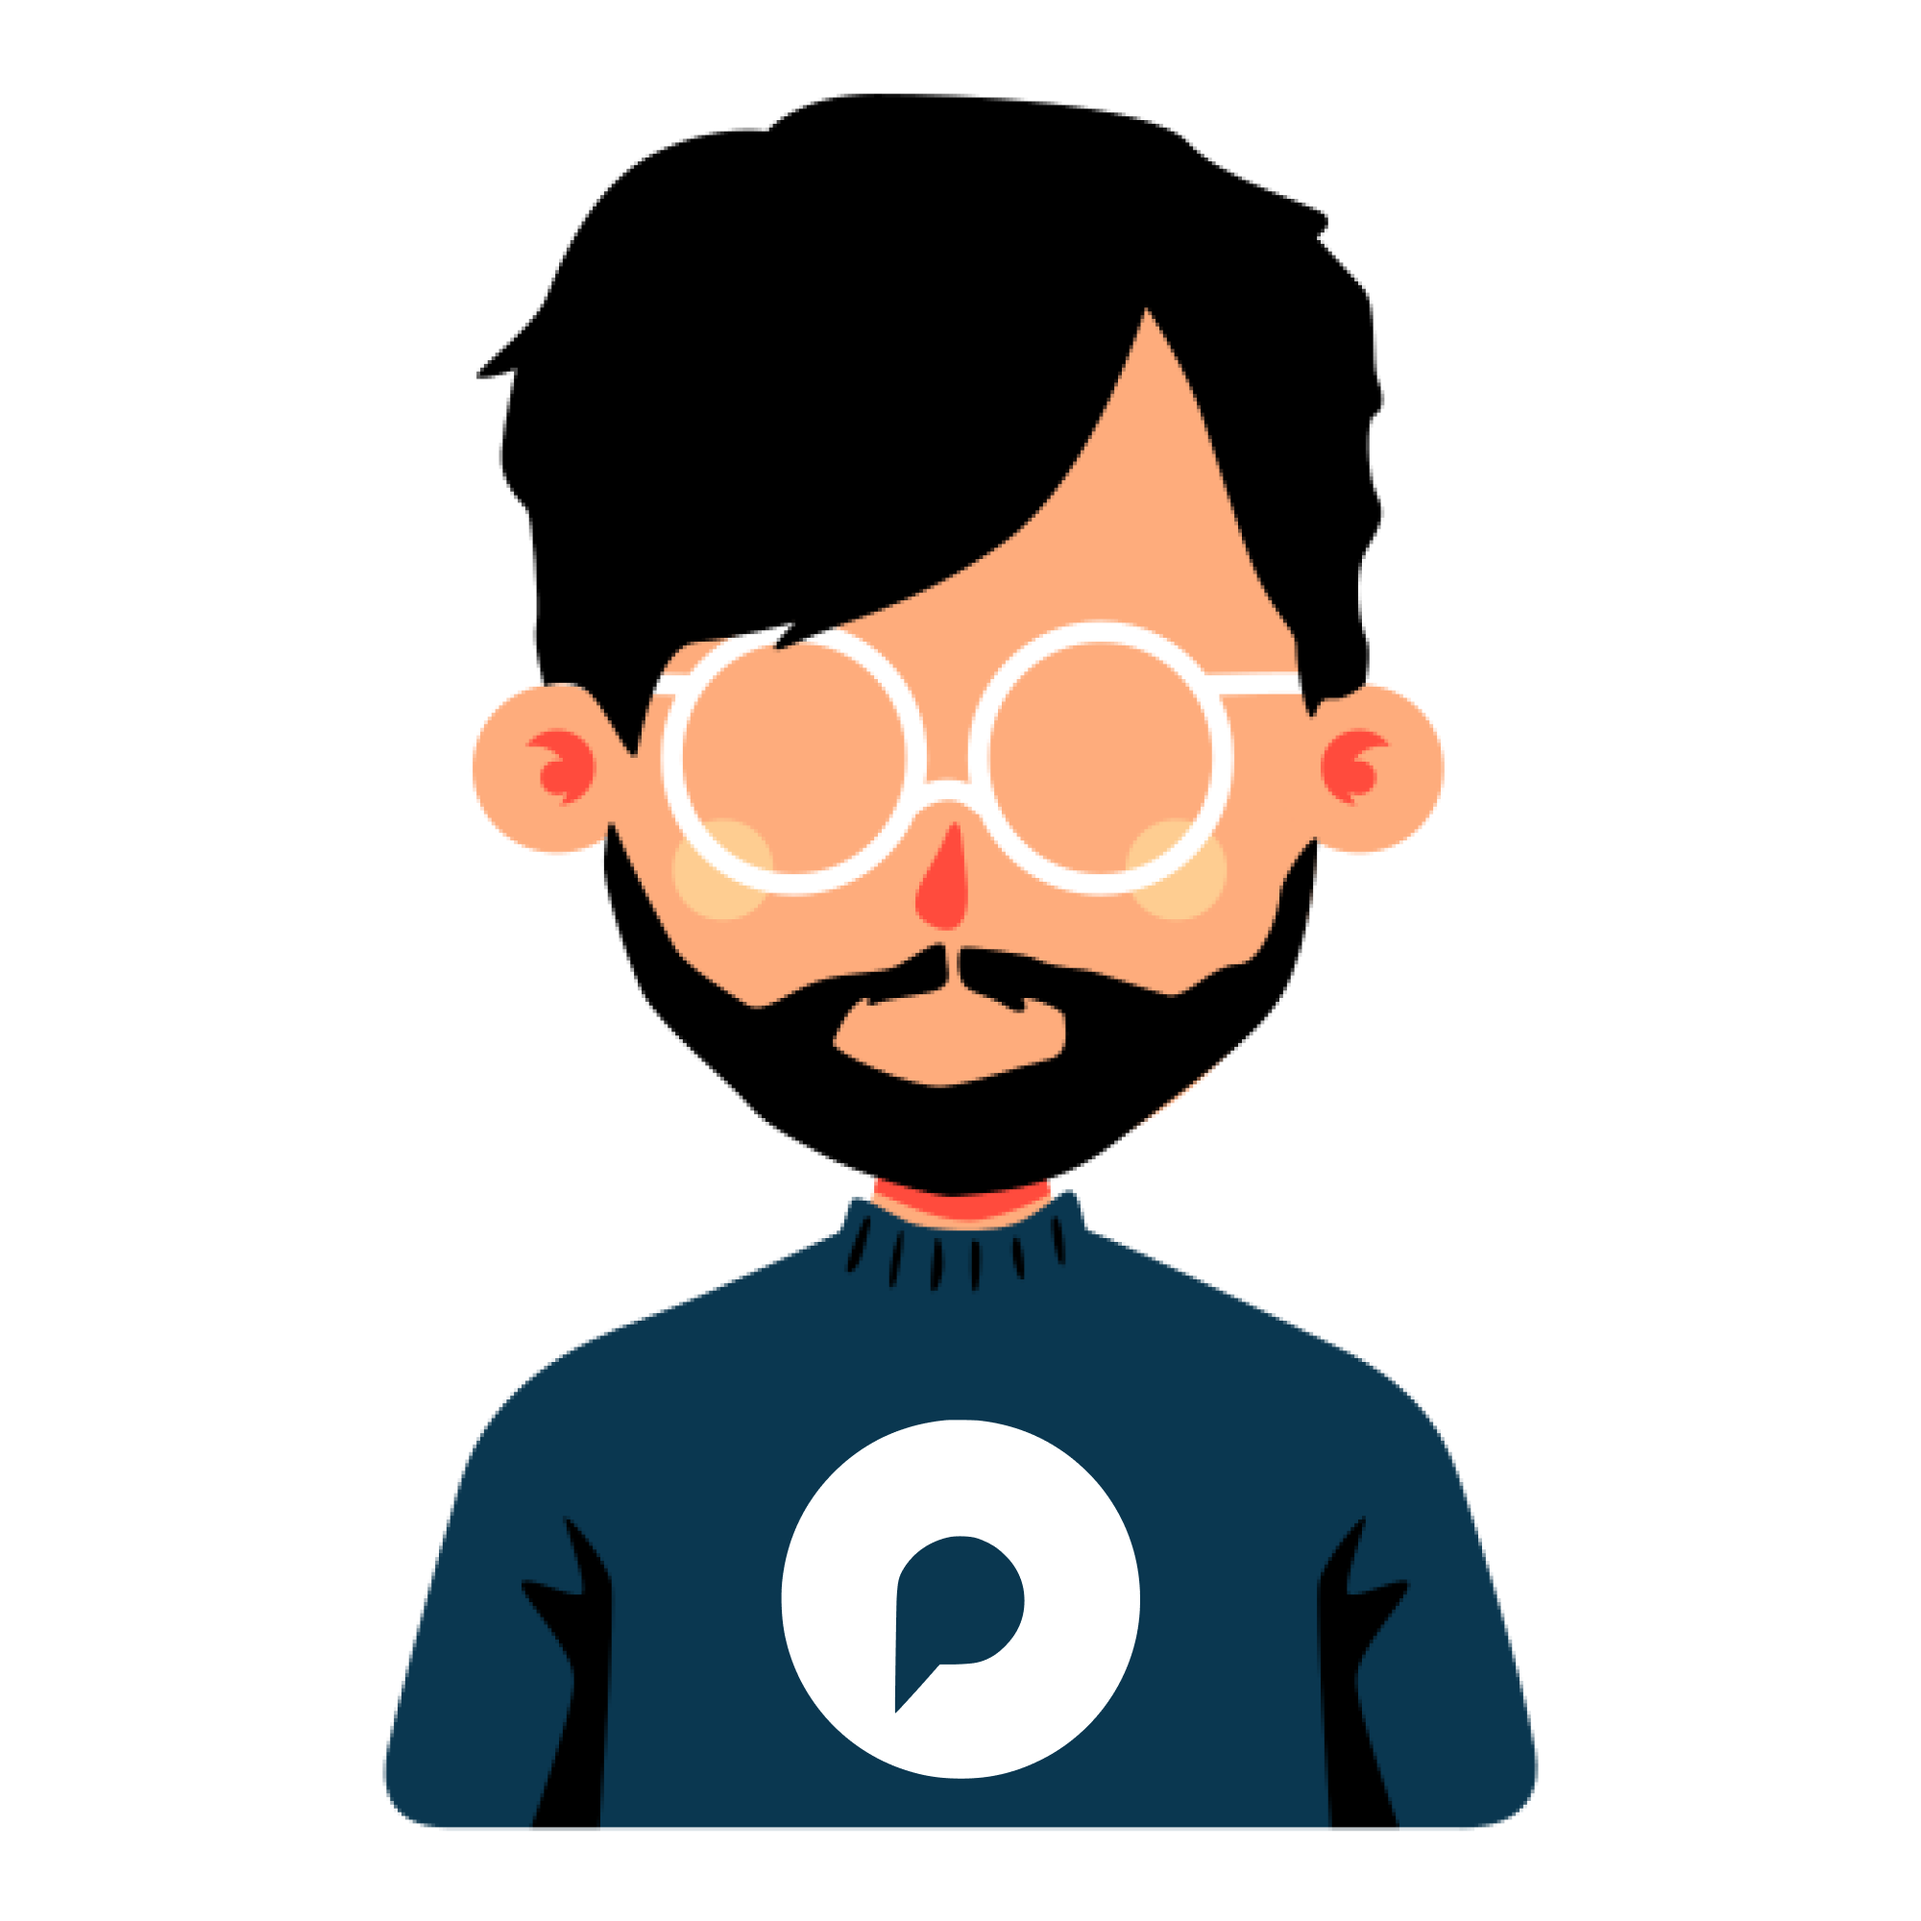
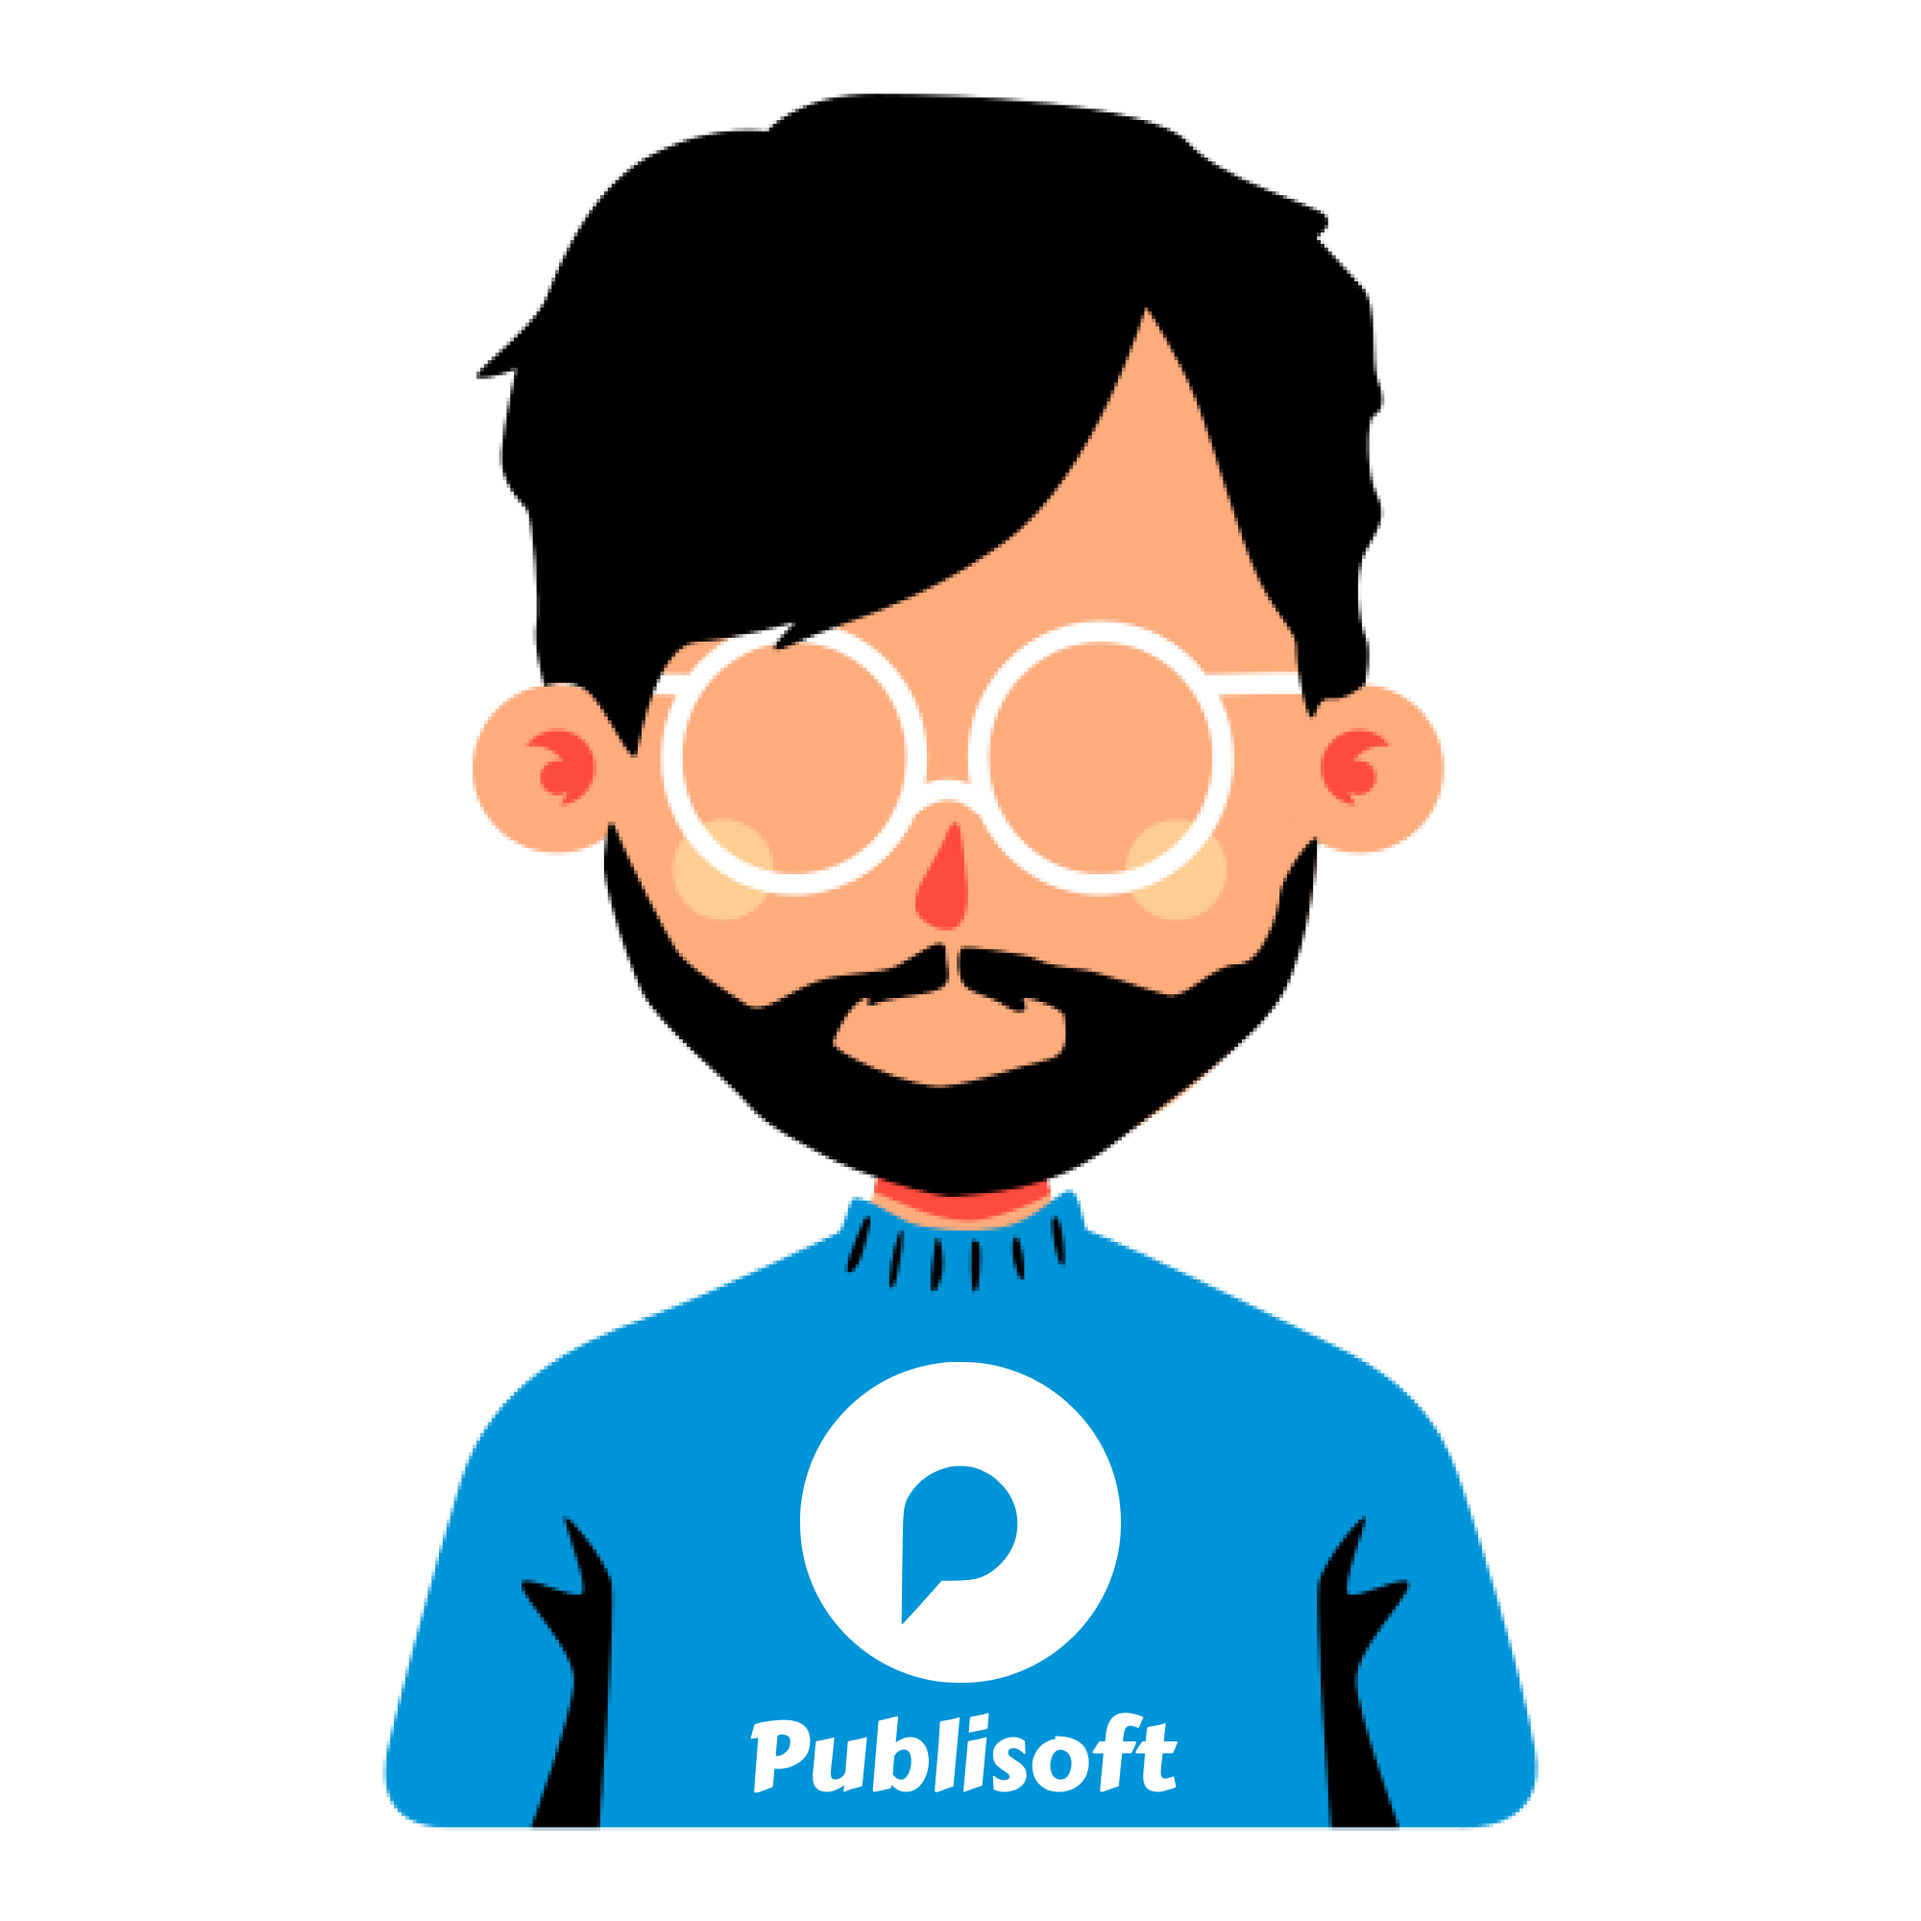
Ajustes

Changed region(s): [[0.186, 0.62, 0.806, 0.961]]

diff --git a/src/Helpers/Select/index.tsx b/src/Helpers/Select/index.tsx
@@ -1,0 +1,111 @@
+import React, { useState } from "react";
+import { StyleSheet, Text, View } from "react-native";
+import { Dropdown } from "react-native-searchable-dropdown-kj";
+import { AntDesign } from "@expo/vector-icons";
+
+interface Item {
+  label: string;
+  value: string;
+}
+
+const data: Item[] = [
+  { label: "Item 1", value: "1" },
+  { label: "Item 2", value: "2" },
+  { label: "Item 3", value: "3" },
+  { label: "Item 4", value: "4" },
+  { label: "Item 5", value: "5" },
+  { label: "Item 6", value: "6" },
+  { label: "Item 7", value: "7" },
+  { label: "Item 8", value: "8" },
+];
+
+const Select: React.FC = () => {
+  const [value, setValue] = useState<string | null>(null);
+  const [isFocus, setIsFocus] = useState<boolean>(false);
+
+  const renderLabel = () => {
+    if (value || isFocus) {
+      return (
+        <Text style={[styles.label, isFocus && { color: "blue" }]}>Itens</Text>
+      );
+    }
+    return null;
+  };
+
+  return (
+    <View style={styles.container}>
+      {renderLabel()}
+      <Dropdown
+        style={[styles.dropdown, isFocus && { borderColor: "blue" }]}
+        placeholderStyle={styles.placeholderStyle}
+        selectedTextStyle={styles.selectedTextStyle}
+        inputSearchStyle={styles.inputSearchStyle}
+        iconStyle={styles.iconStyle}
+        data={data}
+        search
+        maxHeight={300}
+        labelField="label"
+        valueField="value"
+        placeholder={!isFocus ? "Select item" : "..."}
+        searchPlaceholder="Search..."
+        value={value}
+        onFocus={() => setIsFocus(true)}
+        onBlur={() => setIsFocus(false)}
+        onChange={(item) => {
+          setValue(item.value);
+          setIsFocus(false);
+        }}
+        renderLeftIcon={() => (
+          <AntDesign
+            style={styles.icon}
+            color={isFocus ? "blue" : "black"}
+            name="Safety"
+            size={20}
+          />
+        )}
+      />
+    </View>
+  );
+};
+
+export default Select;
+
+const styles = StyleSheet.create({
+  container: {
+    backgroundColor: "white",
+    padding: 16,
+  },
+  dropdown: {
+    height: 50,
+    borderColor: "gray",
+    borderWidth: 0.5,
+    borderRadius: 8,
+    paddingHorizontal: 8,
+  },
+  icon: {
+    marginRight: 5,
+  },
+  label: {
+    position: "absolute",
+    backgroundColor: "white",
+    left: 22,
+    top: 8,
+    zIndex: 999,
+    paddingHorizontal: 8,
+    fontSize: 14,
+  },
+  placeholderStyle: {
+    fontSize: 16,
+  },
+  selectedTextStyle: {
+    fontSize: 16,
+  },
+  iconStyle: {
+    width: 20,
+    height: 20,
+  },
+  inputSearchStyle: {
+    height: 40,
+    fontSize: 16,
+  },
+});

diff --git a/src/routes/CustomDrawerContent.tsx b/src/routes/CustomDrawerContent.tsx
@@ -23,6 +23,7 @@ import {
 } from "react-native-paper";
 import { MaterialCommunityIcons } from "@expo/vector-icons";
 import { useTheme } from "styled-components/native";
+import { useAuth } from "../context";
 
 type CustomDrawerContentProps = DrawerContentComponentProps;
 
@@ -30,6 +31,7 @@ const statusBarHeight = StatusBar.currentHeight;
 
 const CustomDrawerContent: React.FC<CustomDrawerContentProps> = (props) => {
   const { colors } = useTheme();
+  const { signOut } = useAuth();
   return (
     <View style={{ flex: 1, backgroundColor: "#0A3750" }}>
       <DrawerContentScrollView style={styles.headerDrawerSection} {...props}>
@@ -44,9 +46,8 @@ const CustomDrawerContent: React.FC<CustomDrawerContentProps> = (props) => {
                 }}
               >
                 <Avatar.Image
-                  source={{
-                    uri: "https://api.adorable.io/avatars/50/abott@adorable.png",
-                  }}
+                  style={{ backgroundColor: "#0A3750" }}
+                  source={require("../assets/images/UserPublisoft.png")}
                   size={50}
                 />
                 <View style={{ marginLeft: 15, flexDirection: "column" }}>
@@ -129,7 +130,7 @@ const CustomDrawerContent: React.FC<CustomDrawerContentProps> = (props) => {
             />
           )}
           label="Sair da aplicação"
-          onPress={() => {}}
+          onPress={() => signOut()}
         />
       </View>
     </View>

diff --git a/src/pages/Pedidos/index.tsx b/src/pages/Pedidos/index.tsx
@@ -1,20 +1,22 @@
 import React from "react";
 import { useNavigation } from "@react-navigation/native";
-import { ButtonArea, ButtonText, Container } from "./styles";
+import { Avatar, Button, Card, Text } from "react-native-paper";
+import { Container } from "./styles";
+import { Image, StyleSheet } from "react-native";
+import Select from "../../Helpers/Select";
 
 const Pedidos: React.FC = () => {
-  const navigation = useNavigation();
-  async function handleNav() {
-    navigation.navigate("Clientes");
-  }
-
   return (
     <Container>
-      <ButtonArea onPress={handleNav}>
-        <ButtonText>Ir Para Clientes</ButtonText>
-      </ButtonArea>
+      <Card>
+        <Card.Content style={{ flexDirection: "row" }}>
+          <></>
+        </Card.Content>
+      </Card>
     </Container>
   );
 };
+
+const Styles = StyleSheet.create({});
 
 export default Pedidos;

diff --git a/src/pages/Pedidos/styles.ts b/src/pages/Pedidos/styles.ts
@@ -2,17 +2,6 @@ import styled from "styled-components/native";
 
 export const Container = styled.View`
   flex: 1;
-  align-items: center;
-  justify-content: center;
+  padding: 16px;
   background-color: ${(props) => props.theme.colors.Background[50]};
-`;
-
-export const ButtonArea = styled.TouchableOpacity`
-  padding: 15px;
-  border-radius: 15px;
-  background-color: ${(props) => props.theme.colors.Secondary};
-`;
-
-export const ButtonText = styled.Text`
-  color: ${(props) => props.theme.colorBase.White};
 `;
